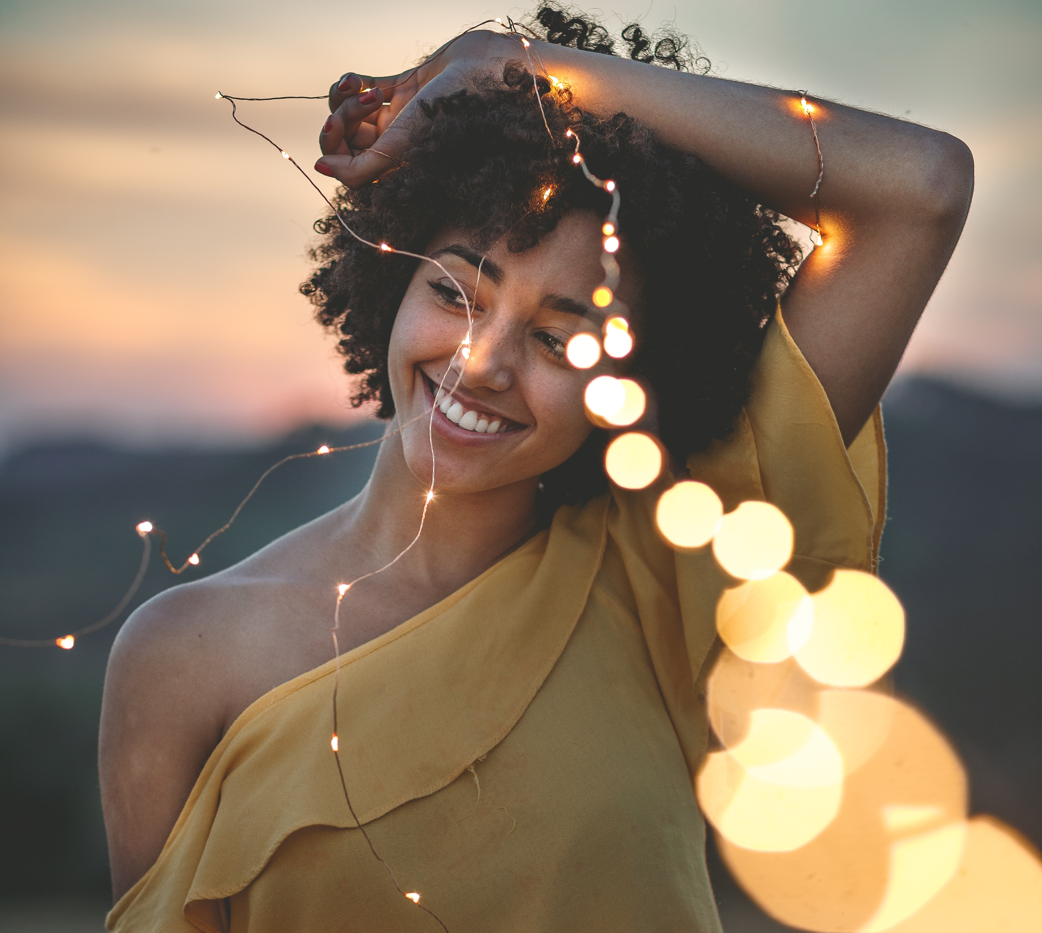
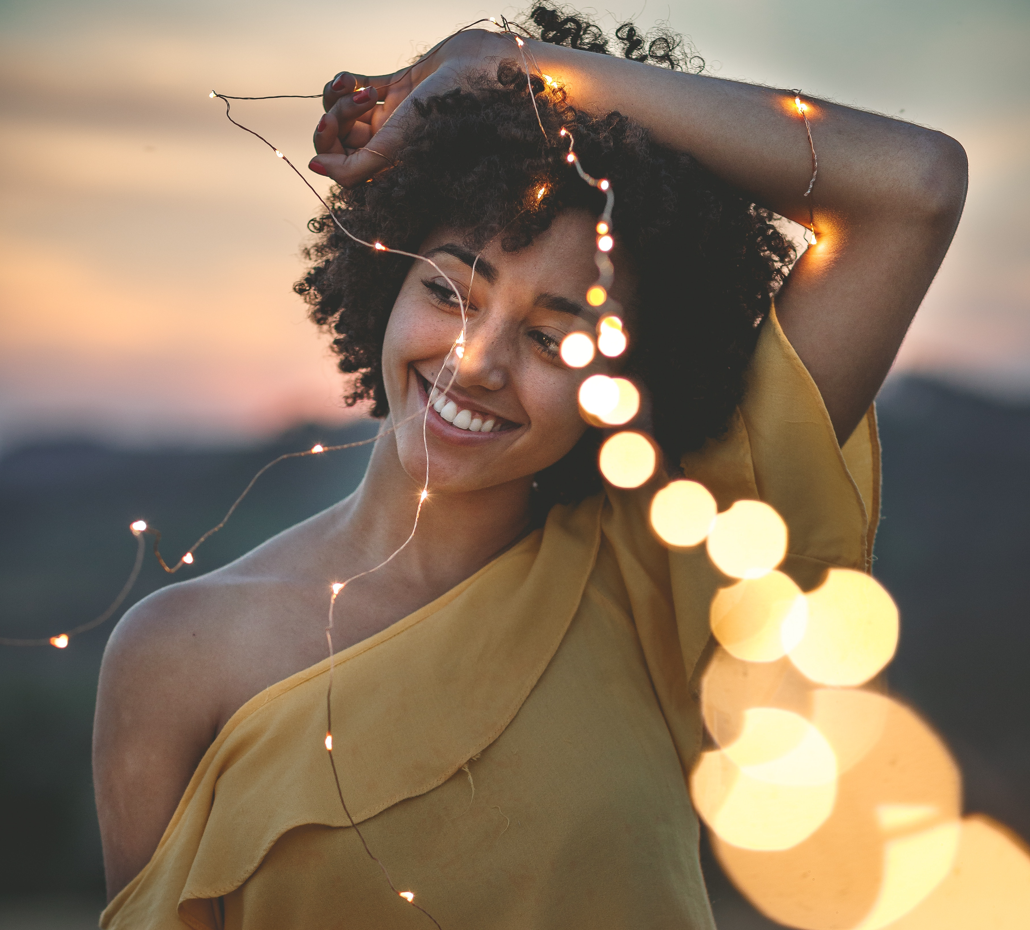
fix: Subheader image layout issue on small mobile

diff --git a/src/features/Home/Subheader.jsx b/src/features/Home/Subheader.jsx
@@ -14,12 +14,10 @@ export default function Subheader() {
   return (
     <div className={cx('subheader')}>
       <div className={cx('subheader-container')}>
-        <div className={cx('img')}>
-          <FadeIn height={400}>
-            {onLoad =>
-              <img className={cx('img')} src={subheader1} onLoad={onLoad} />}
-          </FadeIn>
-        </div>
+        <FadeIn height={400}>
+          {onLoad =>
+            <img className={cx('img')} src={subheader1} onLoad={onLoad} />}
+        </FadeIn>
         <div>
           <h2 className={cx('title')}>Get up and running fast</h2>
         </div>
@@ -31,12 +29,10 @@ export default function Subheader() {
         <LearnMore />
       </div>
       <div className={cx('subheader-container')}>
-        <div>
-          <FadeIn height={400}>
-            {onLoad =>
-              <img className={cx('img')} src={subheader2} onLoad={onLoad} />}
-          </FadeIn>
-        </div>
+        <FadeIn height={400}>
+          {onLoad =>
+            <img className={cx('img')} src={subheader2} onLoad={onLoad} />}
+        </FadeIn>
         <div>
           <h2 className={cx('title')}>Use tech that you love</h2>
         </div>
